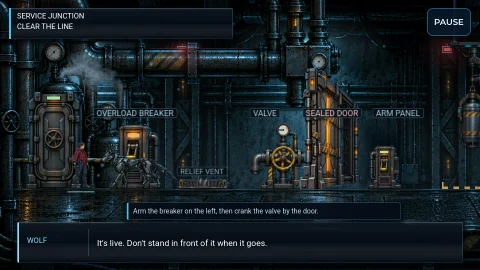
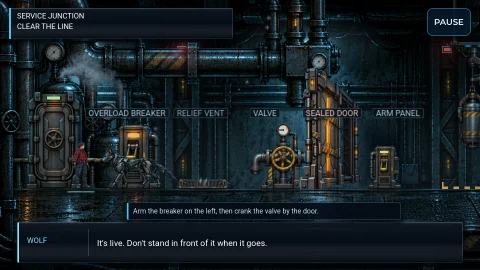
Junction review fixes: see-through pillars, vent plate in the row, painted hatch passage
The corridor and junction bulkheads' front pillars fade to half opacity
while their column covers the engineer or WOLF (RoomDepth.pillars), so
nobody disappears in a doorway; they still draw in front, and collision is
unchanged.

The RELIEF VENT plate joins the station row at the shared size, between
the breaker and valve plates (the breaker plate moves 12 px left), instead
of sitting on the floor where the actors covered it. A test checks it
clears every breaker and valve text.

The open exit hatch shows a cut of the painted passage from the open
corridor bulkhead instead of a flat drawn panel.

The bulkhead prepare script is committed as scripts/prepare_bulkheads.py;
it reproduces all seven import copies byte for byte, and the register
points at it. Register, walkthrough, testing page, changelog, in-game
changelog and the junction site capture are updated.

Changed region(s): [[0.1562, 0.3852, 0.4688, 0.4444], [0.375, 0.6222, 0.4688, 0.6519]]

diff --git a/scripts/prepare_bulkheads.py b/scripts/prepare_bulkheads.py
@@ -1,0 +1,136 @@
+#!/usr/bin/env python3
+"""Rebuild the game's import copies of the approved design A bulkhead art.
+
+For each door family the states and the front lip are registered onto one canvas whose bottom row
+is the floor, the black matte fringe is removed (alpha decontamination), and the result is
+downscaled by half in premultiplied alpha. The originals are not modified.
+
+Usage (needs NumPy and Pillow; the committed copies were made with NumPy 2.5 and Pillow 12.3, and
+these versions reproduce them byte for byte):
+    python3 scripts/prepare_bulkheads.py apps/game/art-source/doors <output directory>
+Compare the output with apps/game/assets/props/*-bulkhead-*.png before replacing them, and update
+the SHA-256 values in apps/game/assets/manifest.json if anything changes.
+"""
+import hashlib
+import json
+import sys
+from pathlib import Path
+
+import numpy as np
+from PIL import Image
+
+if len(sys.argv) != 3:
+	sys.exit("usage: prepare_bulkheads.py <art-source/doors directory> <output directory>")
+SRC = Path(sys.argv[1])
+OUT = Path(sys.argv[2])
+OUT.mkdir(parents=True, exist_ok=True)
+
+# Offsets (x, y) that put each image on its family canvas, measured by registering the images
+# (alpha silhouettes for the states, colour and coverage for the lips).
+FAMILIES = {
+	"junction": {
+		"height": 1280,
+		"images": {
+			"sealed": ("junction-sealed.png", (0, 0)),
+			"breaking": ("junction-breaking.png", (0, 0)),
+			"blown": ("junction-blown.png", (1, 0)),
+			"front-lip": ("junction-front-lip.png", (79, 25)),
+		},
+	},
+	"corridor": {
+		"height": 1296,
+		"images": {
+			"sealed": ("corridor-sealed.png", (0, 0)),
+			"open": ("corridor-open.png", (1, 15)),
+			"front-lip": ("corridor-front-lip.png", (99, 44)),
+		},
+	},
+}
+LOW_ALPHA = 40
+FRINGE_PX = 3
+
+
+def min_filter(a: np.ndarray, r: int) -> np.ndarray:
+	out = a.copy()
+	for dy in range(-r, r + 1):
+		for dx in range(-r, r + 1):
+			out = np.minimum(out, np.roll(np.roll(a, dy, 0), dx, 1))
+	return out
+
+
+def box3(a: np.ndarray) -> np.ndarray:
+	acc = np.zeros_like(a, dtype=np.float32)
+	for dy in (-1, 0, 1):
+		for dx in (-1, 0, 1):
+			acc += np.roll(np.roll(a, dy, 0), dx, 1)
+	return acc / 9.0
+
+
+def defringe(rgba: np.ndarray) -> np.ndarray:
+	rgb = rgba[:, :, :3].astype(np.float32)
+	a = rgba[:, :, 3].astype(np.float32)
+	a[a < LOW_ALPHA] = 0.0
+	interior = min_filter((a >= 250).astype(np.uint8), FRINGE_PX).astype(bool)
+	known = interior.copy()
+	colour = np.where(known[:, :, None], rgb, 0.0)
+	fringe = (a > 0) & ~interior
+	# Bleed the interior colour outward one pixel at a time over the fringe band.
+	for _ in range(FRINGE_PX + 3):
+		todo = fringe & ~known
+		if not todo.any():
+			break
+		acc = np.zeros_like(rgb)
+		cnt = np.zeros(a.shape, dtype=np.float32)
+		for dy in (-1, 0, 1):
+			for dx in (-1, 0, 1):
+				k = np.roll(np.roll(known, dy, 0), dx, 1)
+				c = np.roll(np.roll(colour, dy, 0), dx, 1)
+				acc += c * k[:, :, None]
+				cnt += k
+		grow = todo & (cnt > 0)
+		colour[grow] = acc[grow] / cnt[grow][:, None]
+		known |= grow
+	rgb = np.where((fringe & known)[:, :, None], colour, rgb)
+	# Pull the edge in by one pixel (the dark matte line) and keep it anti-aliased.
+	a = np.minimum(a, box3(min_filter(a, 1)))
+	a[a < 8] = 0.0
+	out = np.dstack([rgb, a]).clip(0, 255).astype(np.uint8)
+	return out
+
+
+def place(img: np.ndarray, offset, height: int) -> np.ndarray:
+	canvas = np.zeros((height, 768, 4), dtype=np.uint8)
+	dx, dy = offset
+	h, w = img.shape[:2]
+	ys0, xs0 = max(0, dy), max(0, dx)
+	ys1, xs1 = min(height, dy + h), min(768, dx + w)
+	canvas[ys0:ys1, xs0:xs1] = img[ys0 - dy:ys1 - dy, xs0 - dx:xs1 - dx]
+	return canvas
+
+
+def downscale(arr: np.ndarray) -> Image.Image:
+	img = Image.fromarray(arr, "RGBA").convert("RGBa")
+	img = img.resize((arr.shape[1] // 2, arr.shape[0] // 2), Image.LANCZOS)
+	return img.convert("RGBA")
+
+
+report = {}
+for family, spec in FAMILIES.items():
+	placed = {}
+	for state, (name, offset) in spec["images"].items():
+		raw = np.asarray(Image.open(SRC / name).convert("RGBA"))
+		placed[state] = place(defringe(raw), offset, spec["height"])
+	if family == "corridor":
+		# The sealed image's base is cut off by its canvas; the open image (same frame, registered
+		# 15 px lower) supplies the rows below that cut so both stand on the same floor row.
+		sealed = placed["sealed"]
+		cut = 1280
+		fill = placed["open"][cut:]
+		sealed[cut:] = np.where(sealed[cut:, :, 3:4] > 0, sealed[cut:], fill)
+	for state, arr in placed.items():
+		out = OUT / f"{family}-bulkhead-{state}.png"
+		downscale(arr).save(out, optimize=True)
+		data = out.read_bytes()
+		bbox = Image.open(out).getchannel("A").getbbox()
+		report[out.name] = {"size": Image.open(out).size, "alpha_bbox": bbox, "sha256": hashlib.sha256(data).hexdigest(), "bytes": len(data)}
+print(json.dumps(report, indent=1))
